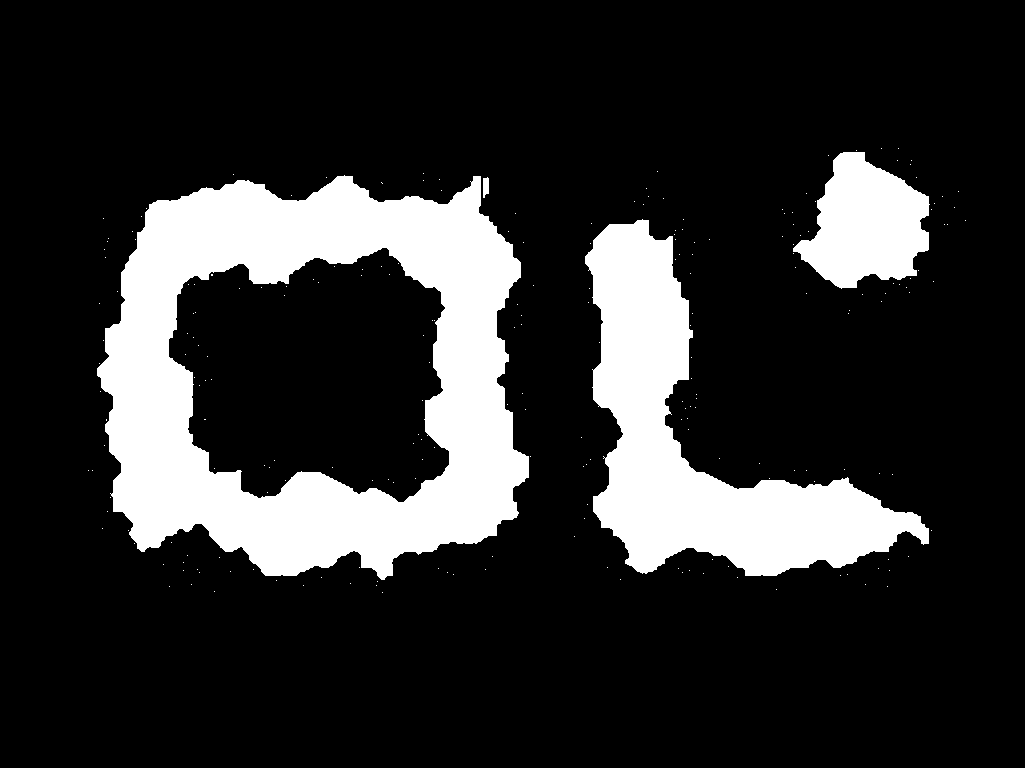
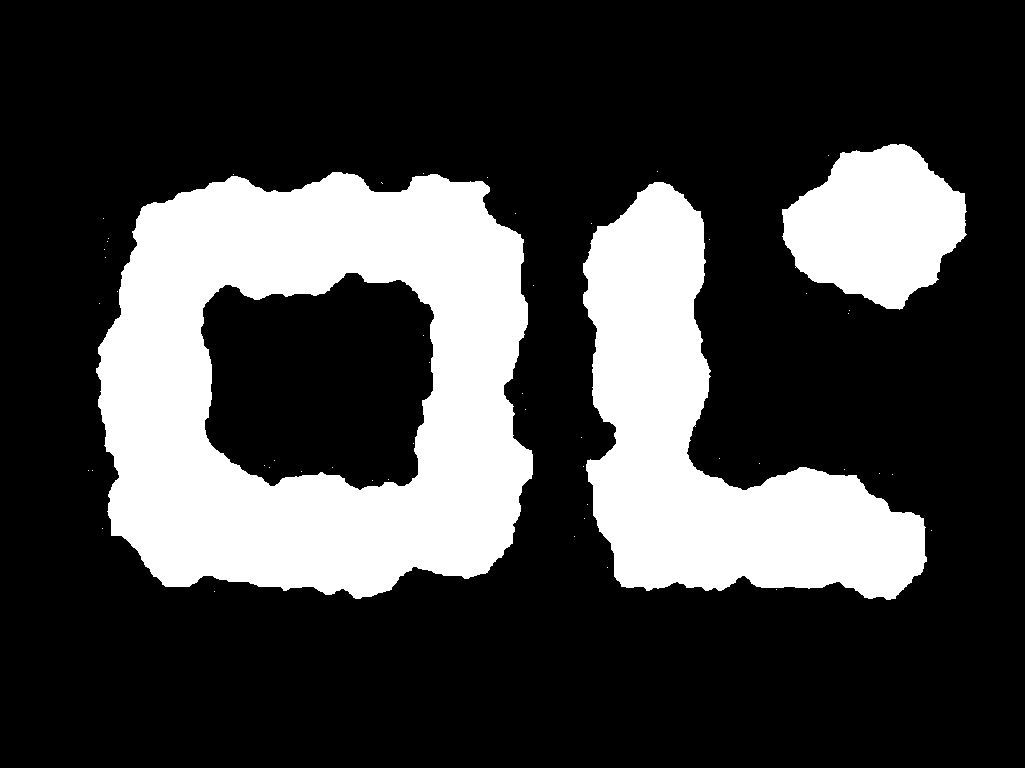
Implementing smoother reduction procedure in Conway morphological operator

diff --git a/src/image-morphological-conway/src/image-morphological-conway.cpp b/src/image-morphological-conway/src/image-morphological-conway.cpp
@@ -95,8 +95,6 @@
             /* swap grid */
             im_prev = im_next.clone();
 
-            std::cerr << im_count << std::endl;
-
         }
 
         /* send resulting layer */
@@ -108,10 +106,10 @@
     source - image transformation
  */
 
-    void im_morphological_conway_maxpool( cv::Mat & im_source, cv::Mat & im_reducted, unsigned int im_scale ) {
+    void im_morphological_conway_maxpool( cv::Mat & im_source, cv::Mat & im_reducted, double const im_factor ) {
 
         /* allocate image */
-        im_reducted = cv::Mat::zeros( cv::Size( im_source.cols >> im_scale, im_source.rows >> im_scale ), CV_8UC1 );
+        im_reducted = cv::Mat::zeros( cv::Size( int(im_source.cols * im_factor), int(im_source.rows * im_factor) ), CV_8UC1 );
 
         /* parsing source image */
         for ( int im_x(0); im_x < im_source.cols; im_x ++ ) {
@@ -123,7 +121,7 @@
                 if ( im_source.at<uchar>(im_y, im_x) == 255 ) {
 
                     /* assign pixels on reduce image */
-                    im_reducted.at<uchar>(im_y >> im_scale, im_x >> im_scale) = 255;
+                    im_reducted.at<uchar>(int(im_y * im_factor), int(im_x * im_factor)) = 255;
 
                 }
 
@@ -145,14 +143,14 @@
         /* export image path */
         char * im_export_path( lc_read_string( argc, argv, "--export", "-e" ) );
 
+        /* reduction factor */
+        double im_factor( lc_read_double( argc, argv, "--factor", "-f", 0.5 ) );
+
         /* source image */
         cv::Mat im_source;
 
         /* reduced image */
         cv::Mat im_reducted;
-
-        /* exported image */
-        cv::Mat im_export;
 
         /* scale reduction depth */
         unsigned int im_reduce( lc_read_unsigned( argc, argv, "--reduction", "-r", 1 ) );
@@ -171,10 +169,7 @@
 
         }
 
-        /* allocate exported image */
-        im_export = cv::Mat::zeros( cv::Size( im_source.cols, im_source.rows ), CV_8UC1 );
-
-        /* parsing scale reduction */
+        /* parsing scales */
         for ( int im_scale( im_reduce ); im_scale >= 0; im_scale -- ) {
 
             /* check scale value */
@@ -186,7 +181,7 @@
             } else {
 
                 /* compute reduced image */
-                im_morphological_conway_maxpool( im_source, im_reducted, im_scale );
+                im_morphological_conway_maxpool( im_source, im_reducted, std::pow( im_factor, im_scale ) );
 
             }
 
@@ -216,6 +211,7 @@
 
     }
 
+        /* system code */
         return 0;
 
     }

diff --git a/src/image-morphological-conway/src/image-morphological-conway.hpp b/src/image-morphological-conway/src/image-morphological-conway.hpp
@@ -52,6 +52,7 @@
  */
 
     # include <iostream>
+    # include <cmath>
     # include <opencv2/opencv.hpp>
     # include <opencv2/highgui/highgui.hpp>
     # include <common-include.hpp>
@@ -84,7 +85,7 @@
     /*! \brief image transformation
      */
 
-    void im_morphological_conway_maxpool( cv::Mat & im_source, cv::Mat & im_reducted, unsigned int im_scale );
+    void im_morphological_conway_maxpool( cv::Mat & im_source, cv::Mat & im_reducted, double const im_factor );
 
     /*! \brief main function
      *
